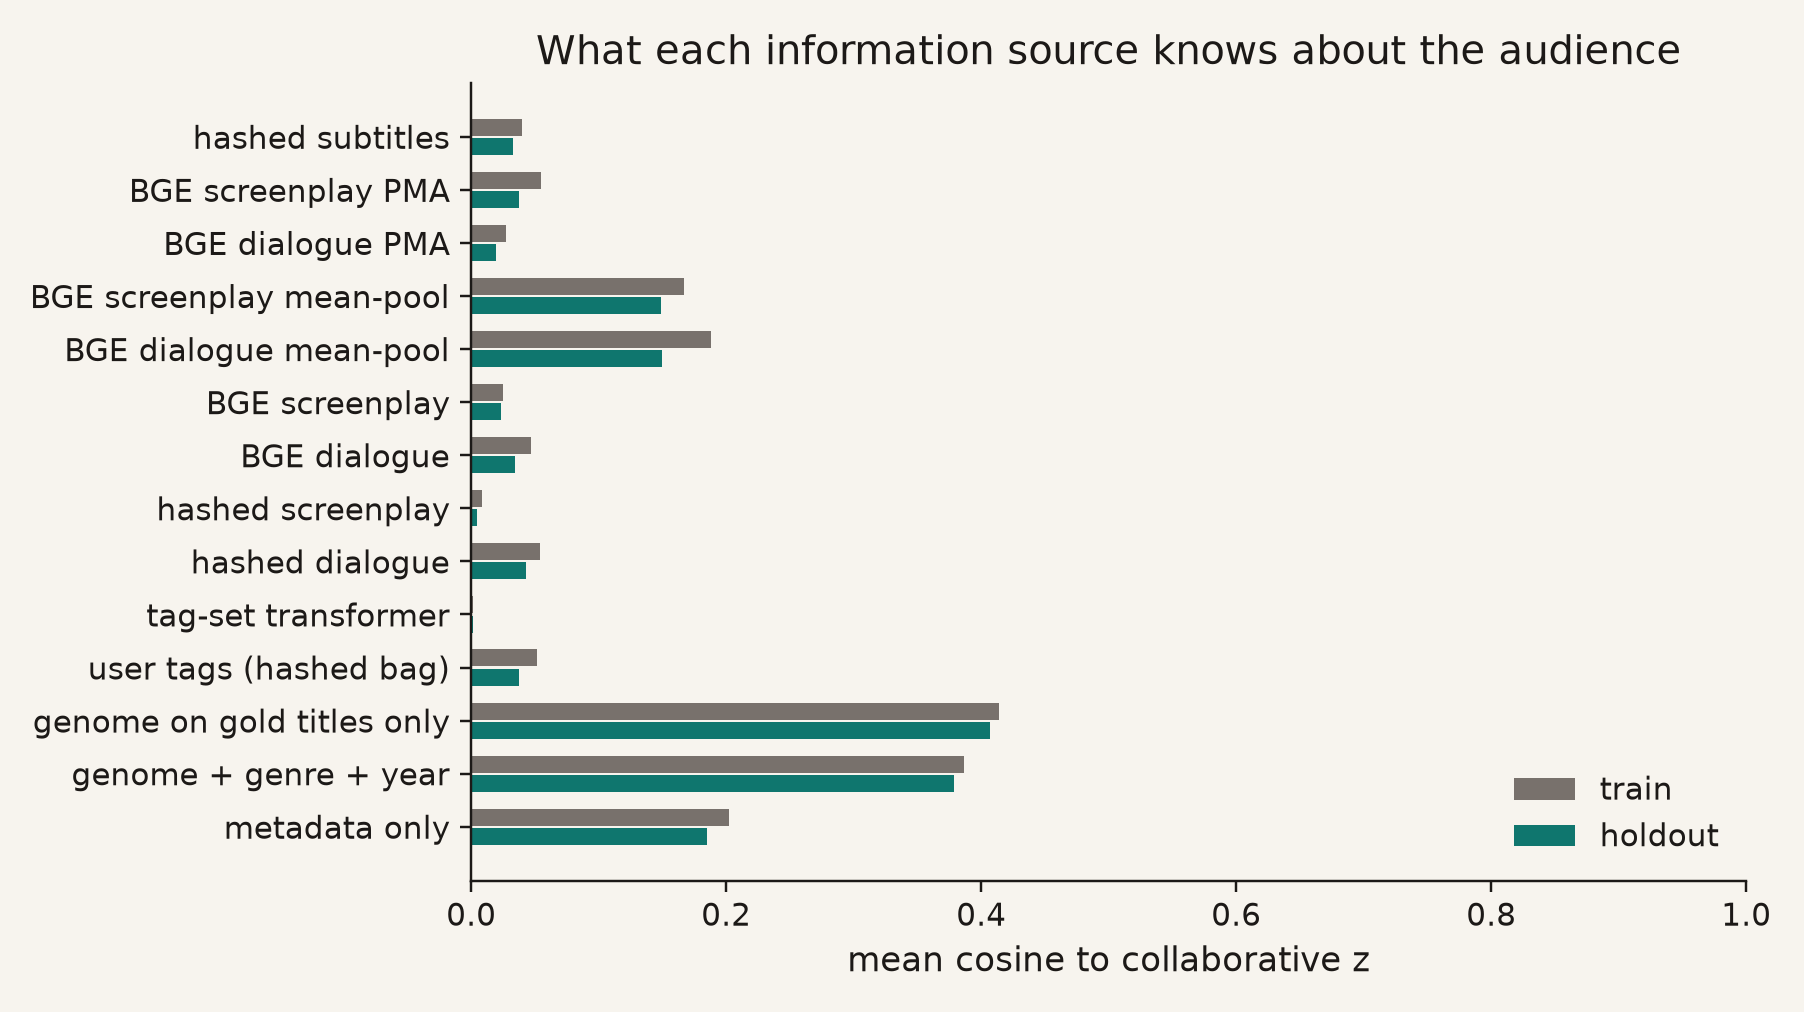
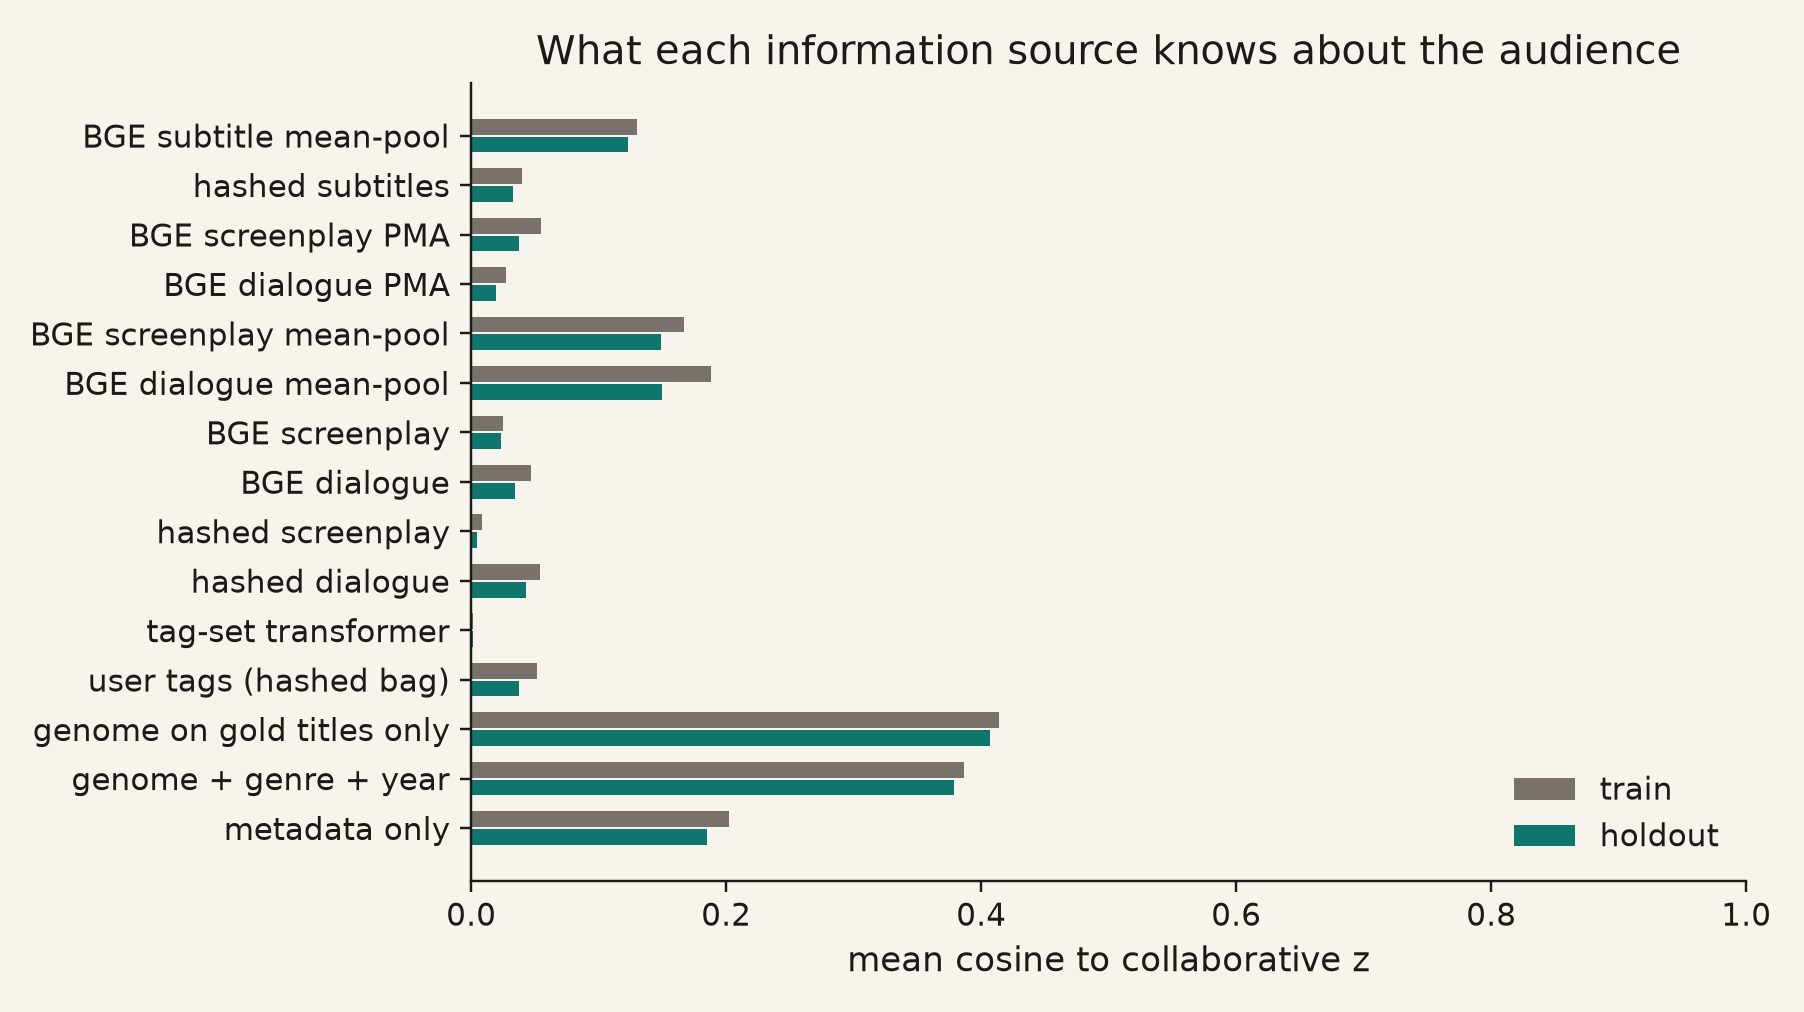
Report BGE subtitle mean-pool: more dialogue does not close the genome gap.
Frozen BGE on 11k SubLens titles reaches 0.123 holdout cosine — above hashing, still below metadata and far below genome. Direct text→z is the wrong jump.

Changed region(s): [[0.0, 0.0919, 0.5588, 0.8271]]

diff --git a/reports/narrative-audience.md b/reports/narrative-audience.md
@@ -126,6 +126,7 @@ mean rating, rating std, P(r ≥ 4), and P(r ≤ 2).
 | screenplay_pma | 0.055 | 0.037 | 332 | 0.037 |
 | dialogue_pma | 0.027 | 0.019 | 332 | 0.019 |
 | subtitle | 0.040 | 0.033 | 1,446 | 0.020 |
+| subtitle_mean | 0.130 | 0.123 | 1,446 | 0.084 |
 
 
 ### What this run actually found
@@ -162,9 +163,8 @@ mean rating, rating std, P(r ≥ 4), and P(r ≤ 2).
   narrative baseline.
 
 - **H3 silver subtitles.** SubLens-20M dialogue on the MovieLens overlap
-  (holdout n=1446): hashed mean-pool 0.033.
+  (holdout n=1446): hashed mean-pool 0.033, BGE mean-pool 0.123.
   `document_type=subtitle` is never collapsed with screenplay.
-  Hashed n-grams stay weak even at 6× MovieSum N; frozen BGE on this overlap is the next measurement.
 
 
 
